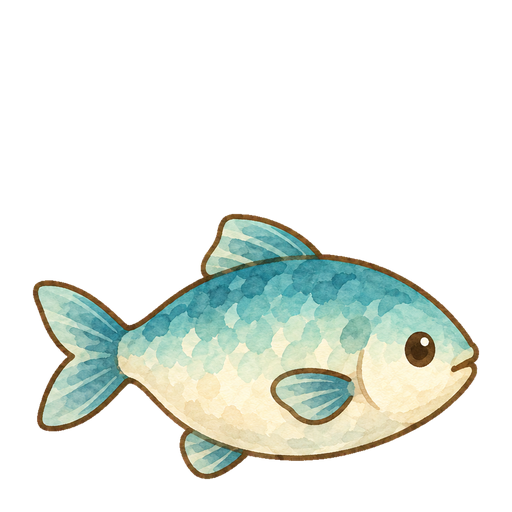
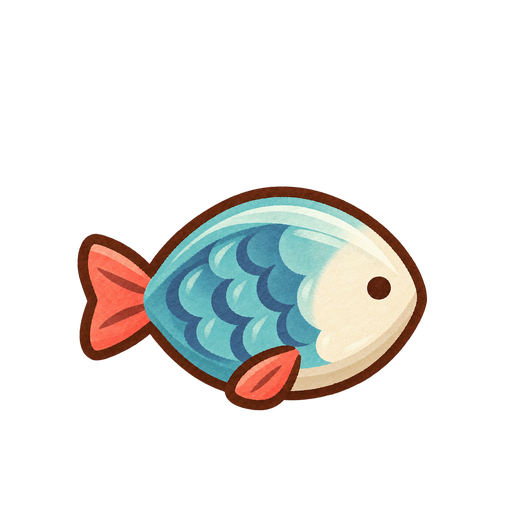
[FEAT] GROMO-1920 물고기 에셋과 집중 단계 반영 (#844)
## Jira

- [GROMO-1920](https://romance.atlassian.net/browse/GROMO-1920)

## 변경 유형

FEAT

## Summary

선택된 기본 물고기 B를 집중 결과와 재화 표시에 적용하고 황금 물고기 B를 앱 번들에 등록했습니다.
집중 낚시 섬에서는 누적 시간에 따라 고양이 옆 물고기 더미가 네 단계로 커지도록 변경했습니다.

## 커밋 목록

- `48e6244e [FEAT] GROMO-1920 물고기 에셋과 집중 단계 반영`
- `27996524 [FIX] GROMO-1920 물고기 더미 4단계 기준 정정`

## Changes

- 기본 물고기·황금 물고기를 96×96 투명 PNG로 추가했습니다.
- 집중 더미를 512×512 투명 PNG 네 종으로 교체하고 중간 단계를 추가했습니다.
- 1~59분, 60~119분, 120~239분, 240분 이상의 공통 단계 선택 로직을 `FocusSea`와 현재
`FishingIsland`에 연결했습니다.
- 낚시 고양이 옆에서 최종 더미의 차이가 읽히도록 더미 표시 크기를 조정했습니다.
- reference 이미지가 결과 화면의 새 재화 아이콘을 덮어쓰지 않도록 확정 물고기 등록 순서를 고정했습니다.
- 단계 경계값 1·59·60·119·120·179·180·239·240분을 테스트했습니다.

![집중 물고기 더미
4단계](https://raw.githubusercontent.com/OneOrThree/planning-document/chore/GROMO-1920-fish-assets/screenshots/GROMO-1920/focus-catch-stages.png)

![집중
결과](https://raw.githubusercontent.com/OneOrThree/planning-document/chore/GROMO-1920-fish-assets/screenshots/GROMO-1920/focus-result.png)

## 빌드/배포 영향

- [ ] 네이티브 변경(ios/ · 새 플러그인/모듈) → `pod install` + 새 TestFlight 빌드 필요
- [x] JS·번들 에셋 변경 → OTA 가능(네이티브 빌드 불필요)
- [ ] 새 의존성 추가 → `npm install` 필요
- [ ] 새 환경변수(EXPO_PUBLIC_*) → .env / .env.example / CI / EAS 반영 필요
- [ ] 권한·entitlements 변경(App Groups 등) → 프로비저닝 재발급 필요

## DB 변경 (백엔드)

- 없음

## 주의사항

- 황금 물고기는 이번 PR에서 번들·레지스트리까지만 추가하며 실제 획득 규칙은 변경하지 않습니다.
- 검증: `npm run typecheck`, `npm run lint`, `npm run format:check`, `npm
test -- --runInBand`, `npx expo export --platform all`

[GROMO-1920]:
[…]

diff --git a/app/app-dev/src/screens/focus/FocusSea.tsx b/app/app-dev/src/screens/focus/FocusSea.tsx
@@ -15,6 +15,7 @@ import { assets, cat } from '@/constants/assets';
 import Svg, { Path, Ellipse } from 'react-native-svg';
 import { C, T } from '@/design-system/primitives';
 import { State, sessionSeconds, currentIsland, Color, SECONDS_PER_FISH } from '@/services/model';
+import { catchAssetPath } from '@/screens/focus/catchAssets';
 export const clock = (n: number) =>
   `${Math.floor(n / 60)
     .toString()
@@ -142,33 +143,19 @@ function FishingBoat({
           strokeWidth={0.6}
         />
       </Svg>
-      {caught > 0 &&
-        (caught < 40 ? (
-          Array.from({ length: caught }, (_, i) => (
-            <Image
-              key={i}
-              source={assets['props/fishing/catch/single.png']}
-              style={{
-                position: 'absolute',
-                width: 20,
-                height: 20,
-                bottom: 25 + Math.floor(i / 4) * 9,
-                left: 38 + (i % 4) * 10,
-              }}
-            />
-          ))
-        ) : (
-          <Image
-            source={assets[`props/fishing/catch/${caught < 120 ? 'pile-small' : 'pile-large'}.png`]}
-            style={{
-              position: 'absolute',
-              width: 60,
-              height: 45,
-              bottom: 18,
-              left: 38,
-            }}
-          />
-        ))}
+      {caught > 0 && (
+        <Image
+          source={assets[catchAssetPath(caught)]}
+          resizeMode="contain"
+          style={{
+            position: 'absolute',
+            width: 64,
+            height: 64,
+            bottom: 12,
+            left: 36,
+          }}
+        />
+      )}
       {phase && (
         <Animated.Image
           source={assets['props/fishing/catch/single.png']}

diff --git a/app/app-dev/src/screens/focus/FishingIsland.tsx b/app/app-dev/src/screens/focus/FishingIsland.tsx
@@ -19,6 +19,7 @@ import { Color, SECONDS_PER_FISH } from '@/services/model';
 import { Grid, Point, nearestLand } from '@/utils/world-grid';
 import { useAppLayout } from '@/utils/layout';
 import land from '@/constants/fishing-island.json';
+import { catchAssetPath } from '@/screens/focus/catchAssets';
 
 // v2 시안 낚시섬(focus-island-flow): 좌표는 지도 가로·세로 % (0~100). 지도는 섬 그림(1536×1024) 비율 그대로.
 // 땅 격자는 시안 land_mask 와 같은 50×50 칸(파란 칸 = 물).
@@ -590,18 +591,14 @@ export function FishingActor({
       </View>
       {count > 0 && (
         <Image
-          source={
-            assets[
-              `props/fishing/catch/${count >= 24 ? 'pile-large' : count >= 8 ? 'pile-small' : 'single'}.png`
-            ]
-          }
+          source={assets[catchAssetPath(count)]}
           resizeMode="contain"
           style={{
             position: 'absolute',
-            left: -a * 0.58,
-            bottom: -a * 0.09,
-            width: a * 0.6,
-            height: a * 0.6,
+            left: -a,
+            bottom: -a * 0.16,
+            width: a * 1.1,
+            height: a * 1.1,
           }}
         />
       )}

diff --git a/app/app-dev/src/constants/assets.ts b/app/app-dev/src/constants/assets.ts
@@ -162,6 +162,7 @@ export const assets: Record<string, ImageSourcePropType> = {
   'characters/cat/calico/fishing/fishing-frame-2.png': require('@/assets/characters/cat/calico/fishing/fishing-frame-2.png'),
   'characters/cat/calico/fishing/fishing-frame-3.png': require('@/assets/characters/cat/calico/fishing/fishing-frame-3.png'),
   'props/fishing/catch/pile-large.png': require('@/assets/props/fishing/catch/pile-large.png'),
+  'props/fishing/catch/pile-medium.png': require('@/assets/props/fishing/catch/pile-medium.png'),
   'props/fishing/catch/pile-small.png': require('@/assets/props/fishing/catch/pile-small.png'),
   'props/fishing/catch/single.png': require('@/assets/props/fishing/catch/single.png'),
   'characters/cat/calico/fishing/reel-frame-3.png': require('@/assets/characters/cat/calico/fishing/reel-frame-3.png'),

diff --git a/app/app-dev/src/screens/focus/catchAssets.test.ts b/app/app-dev/src/screens/focus/catchAssets.test.ts
@@ -1,0 +1,15 @@
+import { catchAssetPath } from '@/screens/focus/catchAssets';
+
+test.each([
+  [1, 'single'],
+  [59, 'single'],
+  [60, 'pile-small'],
+  [119, 'pile-small'],
+  [120, 'pile-medium'],
+  [179, 'pile-medium'],
+  [180, 'pile-medium'],
+  [239, 'pile-medium'],
+  [240, 'pile-large'],
+])('%i분 집중의 물고기 더미는 %s 단계다', (caught, name) => {
+  expect(catchAssetPath(caught)).toBe(`props/fishing/catch/${name}.png`);
+});

diff --git a/app/app-dev/src/screens/focus/catchAssets.ts b/app/app-dev/src/screens/focus/catchAssets.ts
@@ -1,0 +1,10 @@
+export const catchAssetPath = (caught: number) =>
+  `props/fishing/catch/${
+    caught >= 240
+      ? 'pile-large'
+      : caught >= 120
+        ? 'pile-medium'
+        : caught >= 60
+          ? 'pile-small'
+          : 'single'
+  }.png`;

diff --git a/app/app-dev/src/constants/art.ts b/app/app-dev/src/constants/art.ts
@@ -60,3 +60,5 @@ export const art: Record<string, ImageSourcePropType> = {
 };
 
 Object.assign(art, referenceArt);
+art.fish = require('@/assets/redesign/fish.png');
+art['fish/gold'] = require('@/assets/redesign/fish-gold.png');
